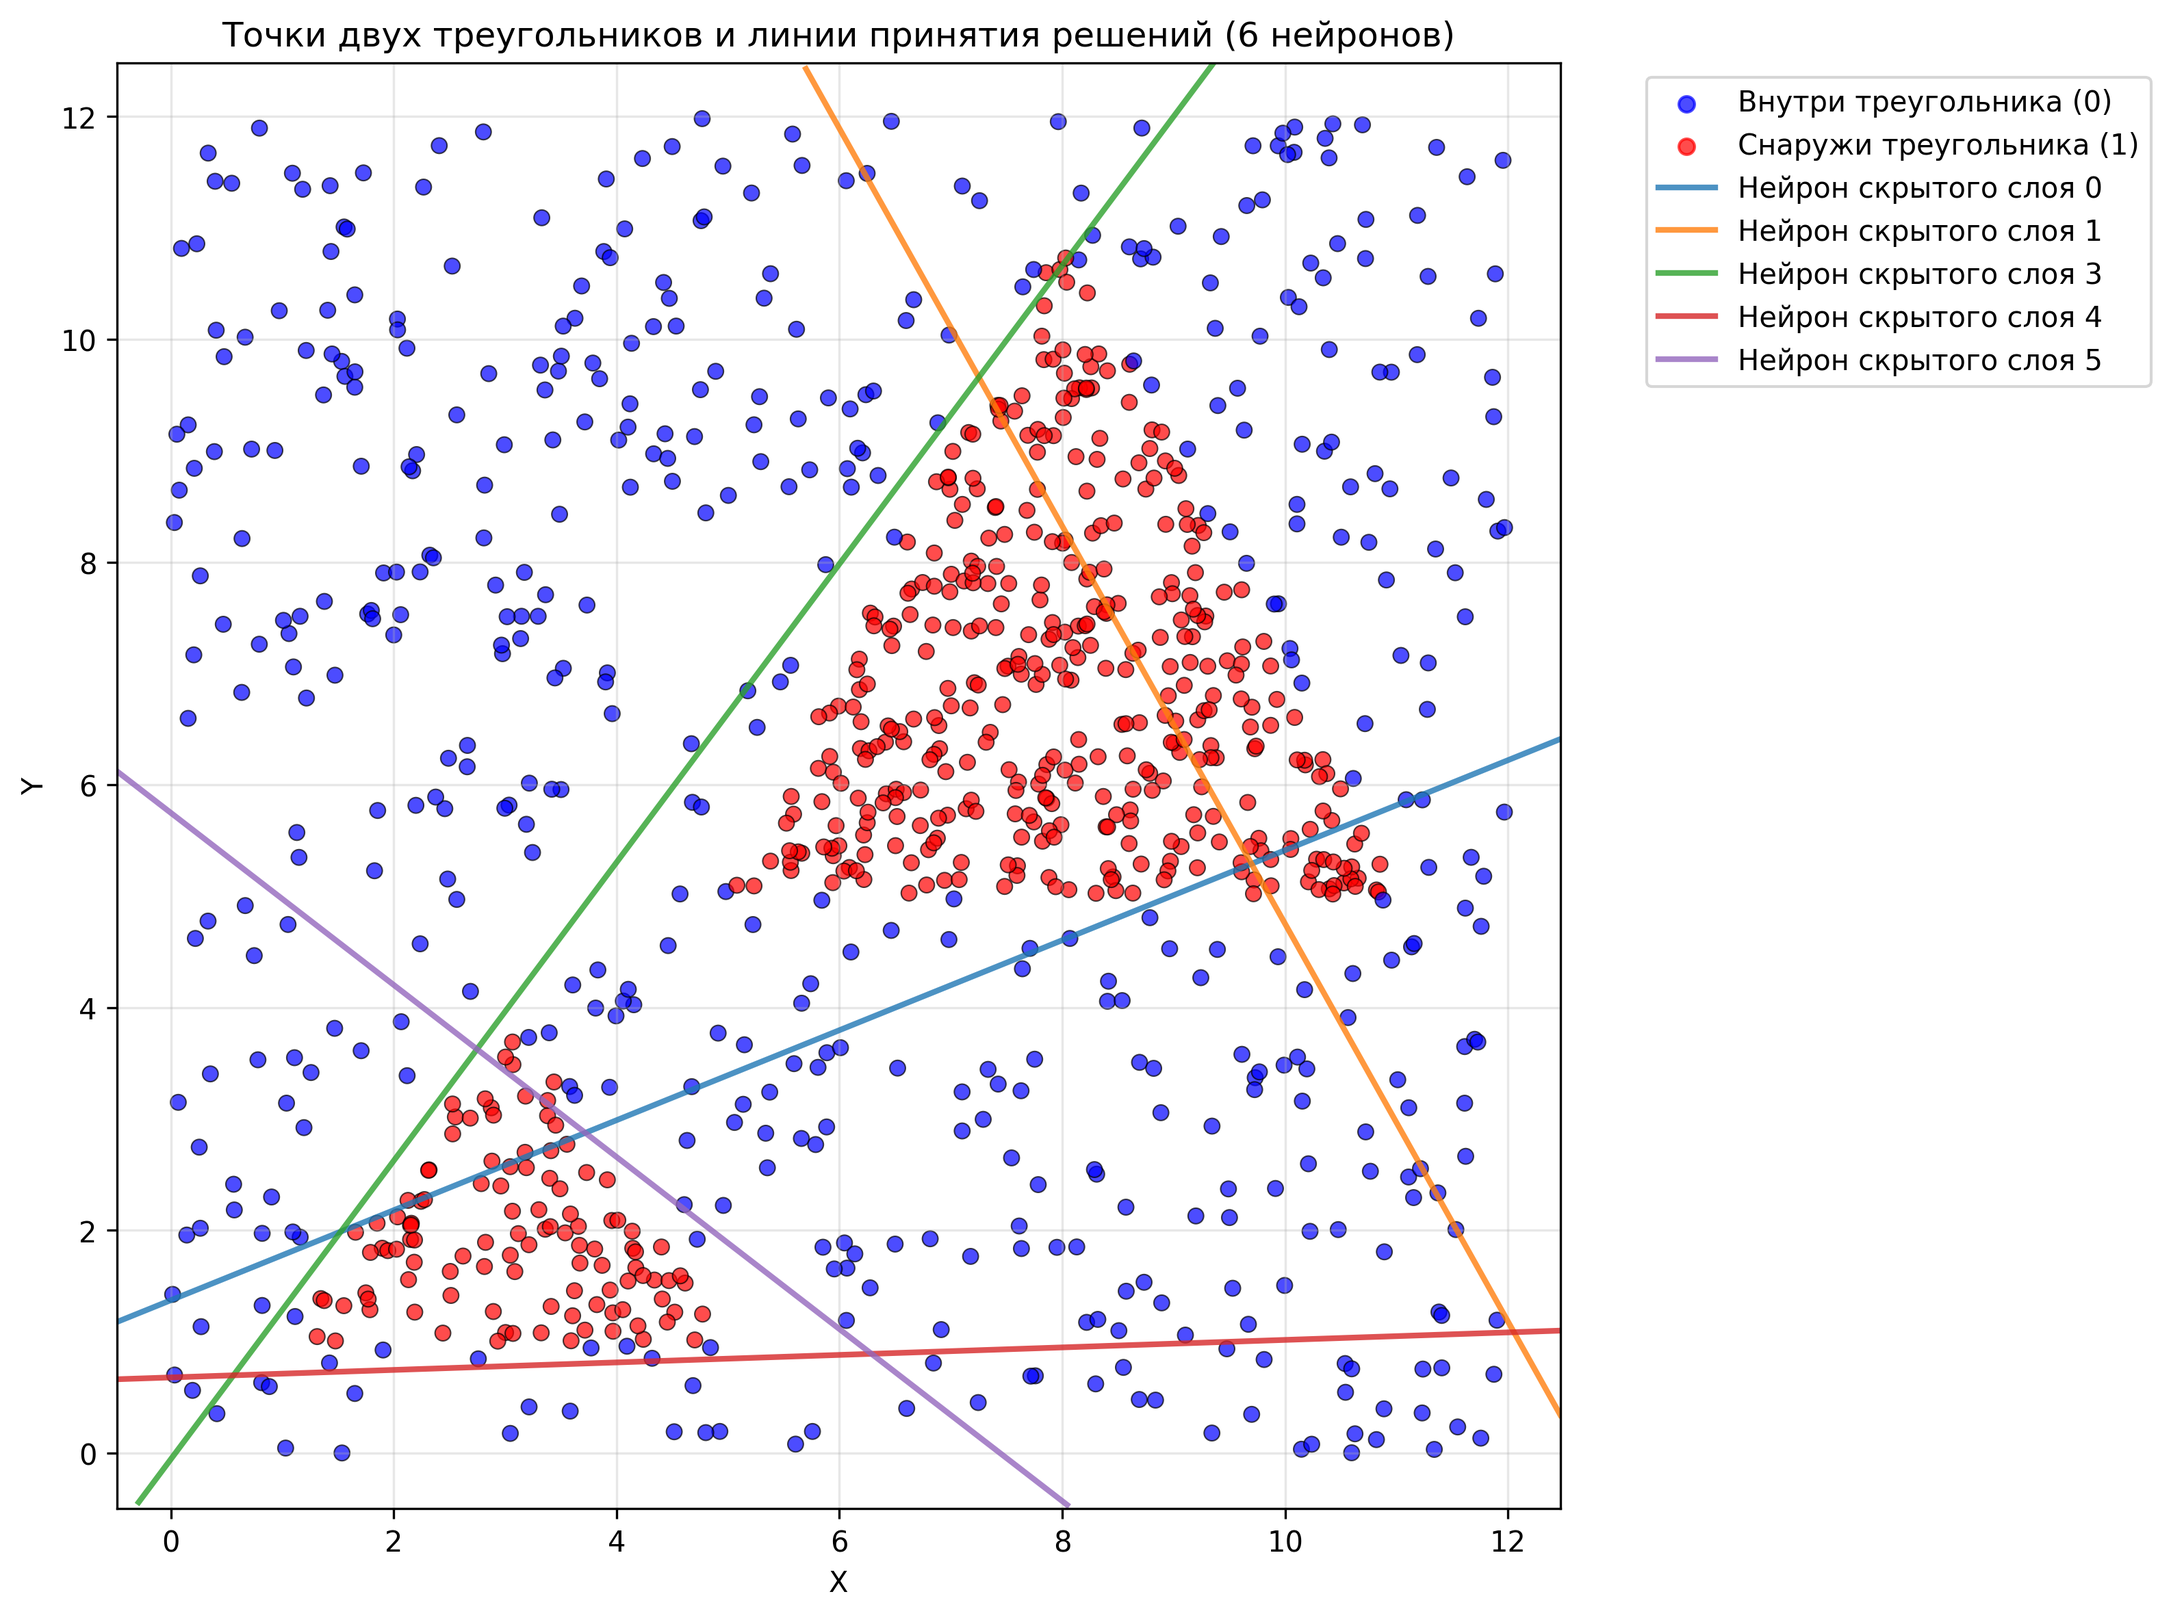
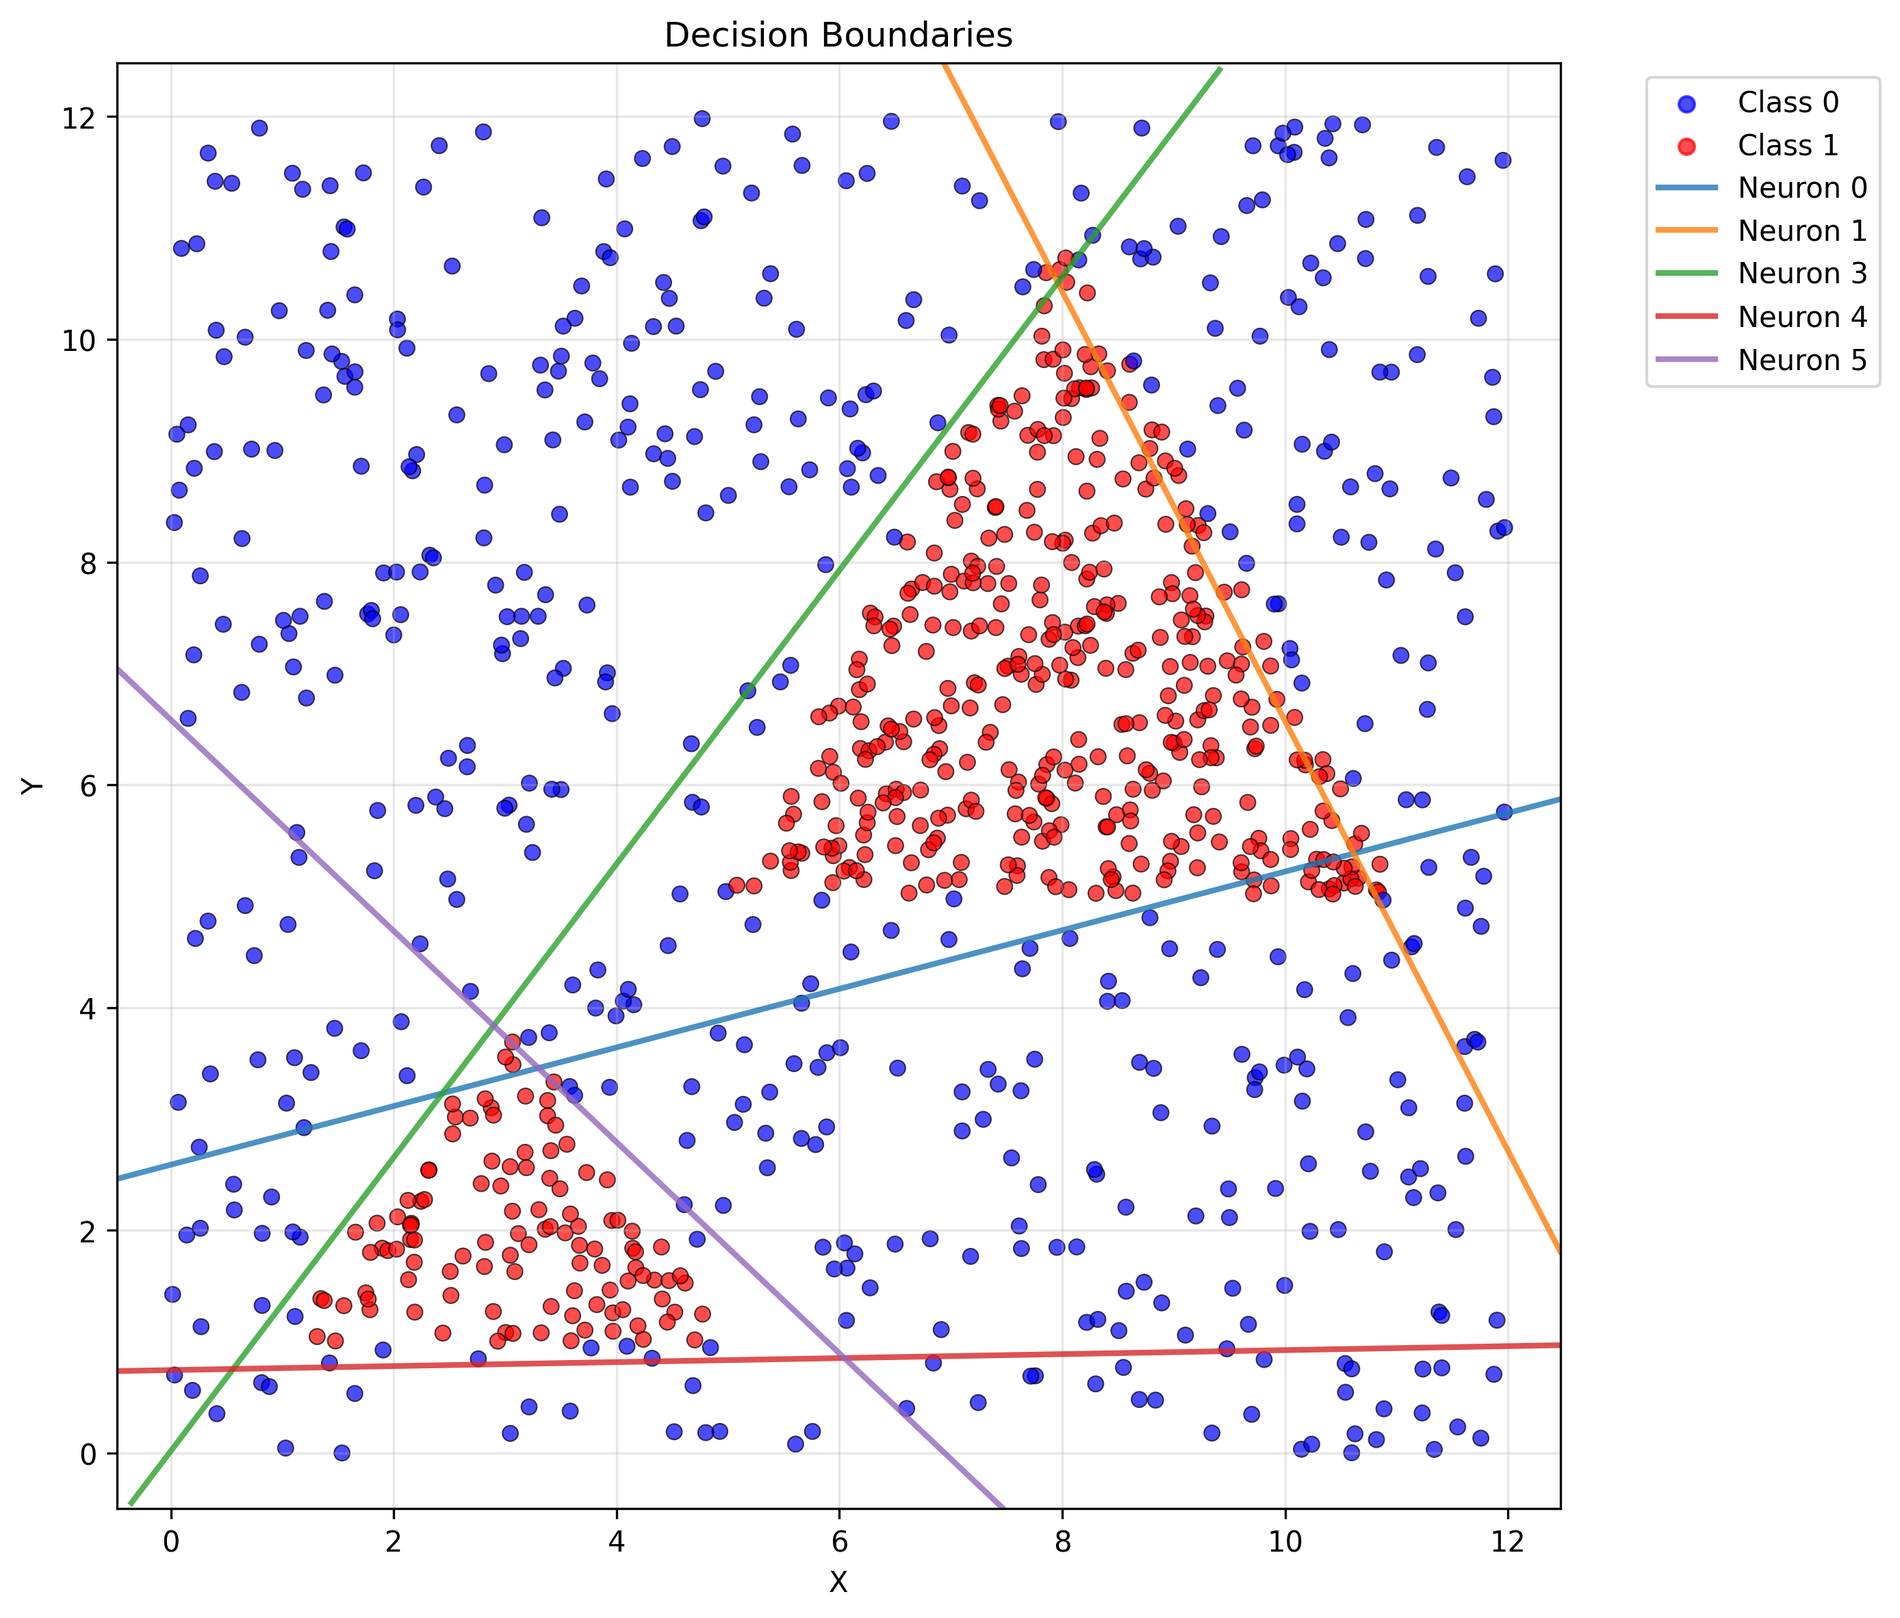
done visualization.py

diff --git a/src/main/python/visualization.py b/src/main/python/visualization.py
@@ -1,0 +1,179 @@
+import pandas as pd
+import matplotlib.pyplot as plt
+import numpy as np
+import sys
+import argparse
+
+def parse_weights_biases(weights_str, biases_str):
+    weights = eval(weights_str)
+    biases = eval(biases_str)
+    return weights, biases
+
+def apply_rotation(data, angle_degrees):
+    angle_rad = np.radians(angle_degrees)
+    rotation_matrix = np.array([
+        [np.cos(angle_rad), -np.sin(angle_rad)],
+        [np.sin(angle_rad), np.cos(angle_rad)]
+    ])
+    result = rotation_matrix @ data.T
+    return result.T
+
+def apply_scale(data, scale_x, scale_y):
+    scale_matrix = np.array([
+        [scale_x, 0],
+        [0, scale_y]
+    ])
+    result = scale_matrix @ data.T
+    return result.T
+
+def apply_shear(data, shear_x, shear_y):
+    shear_matrix = np.array([
+        [1, shear_x],
+        [shear_y, 1]
+    ])
+    result = shear_matrix @ data.T
+    return result.T
+
+def transform_weights(weights, transformation, **kwargs):
+    transformed_weights = []
+    for neuron_weights in weights:
+        weights_array = np.array(neuron_weights)
+        if transformation == 'rotation':
+            angle_rad = np.radians(kwargs['angle'])
+            rotation_matrix = np.array([
+                [np.cos(angle_rad), -np.sin(angle_rad)],
+                [np.sin(angle_rad), np.cos(angle_rad)]
+            ])
+            transformed = rotation_matrix @ weights_array
+        elif transformation == 'scale':
+            scale_matrix = np.array([
+                [1/kwargs['scale_x'], 0],
+                [0, 1/kwargs['scale_y']]
+            ])
+            transformed = weights_array @ scale_matrix
+        elif transformation == 'shear':
+            shear_matrix = np.array([
+                [1, -kwargs['shear_x']],
+                [-kwargs['shear_y'], 1]
+            ])
+            transformed = weights_array @ shear_matrix
+        transformed_weights.append(transformed.tolist())
+    return transformed_weights
+
+def safe_limits(data):
+    clean_data = data[np.isfinite(data)]
+    if len(clean_data) == 0:
+        return -1, 1
+    data_min = np.min(clean_data)
+    data_max = np.max(clean_data)
+    padding = (data_max - data_min) * 0.1
+    return data_min - padding, data_max + padding
+
+def main():
+    parser = argparse.ArgumentParser()
+    parser.add_argument('--weights', type=str, required=True)
+    parser.add_argument('--biases', type=str, required=True)
+    parser.add_argument('--dataset', type=str, default='/home/semyon/projects/neural-networks-and-affine-transformations/src/main/python/multipletriangle/dataset.csv')
+    parser.add_argument('--output', type=str, default='multiple-triangles-class.png')
+    parser.add_argument('--affineTransformation', type=str, choices=['rotation', 'scale', 'shear'])
+    parser.add_argument('--angle', type=float, default=45)
+    parser.add_argument('--scale', type=float, default=1.5)
+    parser.add_argument('--shear', type=float, default=0.3)
+    
+    args = parser.parse_args()
+    
+    weights_layer0, biases_layer0 = parse_weights_biases(args.weights, args.biases)
+    
+    df = pd.read_csv(args.dataset, header=None, names=['x', 'y', 'class', 'class_name'])
+    df['x'] = pd.to_numeric(df['x'], errors='coerce')
+    df['y'] = pd.to_numeric(df['y'], errors='coerce')
+    df['class'] = pd.to_numeric(df['class'], errors='coerce')
+    
+    df = df.dropna()
+
+    fig, (ax1, ax2) = plt.subplots(1, 2, figsize=(20, 8))
+
+    # Original data
+    colors = ['blue' if cls == 0 else 'red' for cls in df['class']]
+    ax1.scatter(df['x'], df['y'], c=colors, alpha=0.7, s=30, edgecolors='black', linewidth=0.5)
+    ax1.set_title('Original Data')
+    ax1.set_xlabel('X')
+    ax1.set_ylabel('Y')
+    ax1.grid(True, alpha=0.3)
+    ax1.set_aspect('equal')
+
+    x_min, x_max = safe_limits(df['x'].values)
+    y_min, y_max = safe_limits(df['y'].values)
+    
+    ax1.set_xlim(x_min, x_max)
+    ax1.set_ylim(y_min, y_max)
+
+    # Transformed data
+    if args.affineTransformation:
+        data_points = df[['x', 'y']].values
+        
+        if args.affineTransformation == 'rotation':
+            transformed_data = apply_rotation(data_points, args.angle)
+            transformed_weights = transform_weights(weights_layer0, 'rotation', angle=args.angle)
+            ax2.set_title(f'Rotated Data (angle={args.angle}°)')
+            
+        elif args.affineTransformation == 'scale':
+            transformed_data = apply_scale(data_points, args.scale, args.scale)
+            transformed_weights = transform_weights(weights_layer0, 'scale', scale_x=args.scale, scale_y=args.scale)
+            ax2.set_title(f'Scaled Data (scale_x={args.scale}, scale_y={args.scale})')
+            
+        elif args.affineTransformation == 'shear':
+            transformed_data = apply_shear(data_points, args.shear, args.shear)
+            transformed_weights = transform_weights(weights_layer0, 'shear', shear_x=args.shear, shear_y=args.shear)
+            ax2.set_title(f'Sheared Data (shear_x={args.shear}, shear_y={args.shear})')
+        
+        ax2.scatter(transformed_data[:, 0], transformed_data[:, 1], c=colors, alpha=0.7, s=30, edgecolors='black', linewidth=0.5)
+        
+        x_min_t, x_max_t = safe_limits(transformed_data[:, 0])
+        y_min_t, y_max_t = safe_limits(transformed_data[:, 1])
+        
+        ax2.set_xlim(x_min_t, x_max_t)
+        ax2.set_ylim(y_min_t, y_max_t)
+        
+        x_range_t = np.linspace(x_min_t, x_max_t, 200)
+        
+        for neuron_idx in range(len(transformed_weights)):
+            w1 = transformed_weights[neuron_idx][0]
+            w2 = transformed_weights[neuron_idx][1]
+            b = biases_layer0[neuron_idx]
+
+            if abs(w2) > 1e-6:
+                y_line = (-w1 * x_range_t - b) / w2
+                valid_indices = (y_line >= y_min_t) & (y_line <= y_max_t)
+                if np.any(valid_indices):
+                    ax2.plot(x_range_t[valid_indices], y_line[valid_indices], linewidth=2, alpha=0.8)
+    else:
+        ax2.scatter(df['x'], df['y'], c=colors, alpha=0.7, s=30, edgecolors='black', linewidth=0.5)
+        ax2.set_title('No Transformation')
+        transformed_weights = weights_layer0
+        ax2.set_xlim(x_min, x_max)
+        ax2.set_ylim(y_min, y_max)
+
+    ax2.set_xlabel('X')
+    ax2.set_ylabel('Y')
+    ax2.grid(True, alpha=0.3)
+    ax2.set_aspect('equal')
+
+    x_range = np.linspace(x_min, x_max, 200)
+
+    for neuron_idx in range(len(weights_layer0)):
+        w1 = weights_layer0[neuron_idx][0]
+        w2 = weights_layer0[neuron_idx][1]
+        b = biases_layer0[neuron_idx]
+
+        if abs(w2) > 1e-6:
+            y_line = (-w1 * x_range - b) / w2
+            valid_indices = (y_line >= y_min) & (y_line <= y_max)
+            if np.any(valid_indices):
+                ax1.plot(x_range[valid_indices], y_line[valid_indices], linewidth=2, alpha=0.8)
+
+    plt.tight_layout()
+    plt.show()
+
+if __name__ == "__main__":
+    main()

diff --git a/src/main/java/com/shavarushka/cli/commands/VisualizationCommand.java b/src/main/java/com/shavarushka/cli/commands/VisualizationCommand.java
@@ -1,0 +1,114 @@
+package com.shavarushka.cli.commands;
+
+import java.io.BufferedReader;
+import java.util.Map;
+
+public class VisualizationCommand implements Command {
+
+    private Map<String, String> requiredArgs;
+    private String transformationType;
+    private Double angle;
+    private Double scale;
+    private Double shear;
+
+    public VisualizationCommand(Map<String, String> requiredArgs, String transformationType, 
+                              String angle, String scale, String shear) {
+        this.requiredArgs = requiredArgs;
+        this.transformationType = transformationType;
+        this.angle = angle != null ? Double.parseDouble(angle) : null;
+        this.scale = scale != null ? Double.parseDouble(scale) : null;
+        this.shear = shear != null ? Double.parseDouble(shear) : null;
+    }
+
+    @Override
+    public String name() {
+        return "visualize";
+    }
+
+    @Override
+    public void execute() {
+        try {
+            // Получаем веса и смещения из модели
+            String weights = getWeightsFromModel();
+            String biases = getBiasesFromModel();
+            
+            // Строим команду для Python скрипта
+            ProcessBuilder pb = buildPythonCommand(weights, biases);
+            
+            // Запускаем процесс
+            Process process = pb.start();
+            
+            // Читаем вывод
+            BufferedReader reader = new BufferedReader(new InputStreamReader(process.getInputStream()));
+            String line;
+            while ((line = reader.readLine()) != null) {
+                System.out.println(line);
+            }
+            
+            // Читаем ошибки
+            BufferedReader errorReader = new BufferedReader(new InputStreamReader(process.getErrorStream()));
+            while ((line = errorReader.readLine()) != null) {
+                System.err.println(line);
+            }
+            
+            int exitCode = process.waitFor();
+            if (exitCode != 0) {
+                System.err.println("Python script exited with error code: " + exitCode);
+            }
+            
+        } catch (Exception e) {
+            System.err.println("Error executing visualization command: " + e.getMessage());
+            e.printStackTrace();
+        }
+    }
+
+    private String getWeightsFromModel() {
+        // Заглушка - в реальности нужно получить веса из модели
+        // Для примера возвращаем тестовые веса
+        return "[[-0.25,0.95],[0.27,0.14],[-0.01,-0.04],[1.41,-1.07],[0.05,-2.79],[-0.73,-0.77]]";
+    }
+
+    private String getBiasesFromModel() {
+        // Заглушка - в реальности нужно получить смещения из модели
+        return "[-2.46,-3.62,-2.81,0.02,2.08,5.07]";
+    }
+
+    private ProcessBuilder buildPythonCommand(String weights, String biases) {
+        String pythonScriptPath = "/home/semyon/projects/neural-networks-and-affine-transformations/src/main/python/visualization.py";
+        
+        ProcessBuilder pb = new ProcessBuilder(
+            "python", pythonScriptPath,
+            "--weights", weights,
+            "--biases", biases
+        );
+        
+        // Добавляем параметры преобразования
+        if (transformationType != null) {
+            pb.command().add("--affineTransformation");
+            pb.command().add(transformationType);
+            
+            switch (transformationType.toLowerCase()) {
+                case "rotation":
+                    if (angle != null) {
+                        pb.command().add("--angle");
+                        pb.command().add(angle.toString());
+                    }
+                    break;
+                case "scale":
+                    if (scale != null) {
+                        pb.command().add("--scale");
+                        pb.command().add(scale.toString());
+                    }
+                    break;
+                case "shear":
+                    if (shear != null) {
+                        pb.command().add("--shear");
+                        pb.command().add(shear.toString());
+                    }
+                    break;
+            }
+        }
+        
+        return pb;
+    }
+}

diff --git a/src/main/python/multipletriangle/visualization.py b/src/main/python/multipletriangle/visualization.py
@@ -8,16 +8,15 @@ df['y'] = pd.to_numeric(df['y'], errors='coerce')
 df['class'] = pd.to_numeric(df['class'], errors='coerce')
 
 weights_layer0 = [
-    [-0.3450212776660919, 0.8539338707923889],
-    [0.28619298338890076, 0.1603141725063324],
-    [-0.09483292698860168, -0.11287638545036316],
-    [1.31396484375, -0.980914294719696],
-    [0.08046909421682358, -2.3885154724121094],
-    [-0.7431932687759399, -0.9621642827987671]
+[-0.2565350830554962, 0.9576932787895203],
+[0.27009227871894836, 0.1462019383907318],
+[-0.019547274336218834, -0.04933701455593109],
+[1.410359501838684, -1.0748653411865234],
+[0.05246511474251747, -2.7907469272613525],
+[-0.7326761484146118, -0.7785971164703369]
 ]
 
-biases_layer0 = [-1.1721757650375366, -3.6236443519592285, -2.4966719150543213,
-                 -0.05389179289340973, 1.6233192682266235, 5.5311279296875]
+biases_layer0 = [-2.4601266384124756, -3.623004913330078, -2.8133342266082764, 0.028144216164946556, 2.0828888416290283, 5.075809001922607]
 
 plt.figure(figsize=(12, 8))
 

diff --git a/src/main/java/com/shavarushka/network/multipletriangle/Main.java b/src/main/java/com/shavarushka/network/multipletriangle/Main.java
@@ -14,7 +14,7 @@ import com.shavarushka.network.api.fabric.MultipleTriangleModelFabric;
 
 public class Main {
     public static void main(String[] args) {
-        ModelFabric fabric = new MultipleTriangleModelFabric(ModelLoader.load("src/main/resources/two-triangles.zip"));
+        ModelFabric fabric = new MultipleTriangleModelFabric(ModelLoader.load("src/main/resources/two-triangle.zip"));
 
         ModelPredictor predictor = fabric.createPredictor();
         WeightsManager weightsManager = fabric.createWeightsManager();

diff --git a/src/main/java/com/shavarushka/network/multipletriangle/MultipleTriangleNetwork.java b/src/main/java/com/shavarushka/network/multipletriangle/MultipleTriangleNetwork.java
@@ -20,7 +20,7 @@ public class MultipleTriangleNetwork {
         MultiLayerConfiguration config = new NeuralNetConfiguration.Builder()
                 .seed(modelSeed)
                 .optimizationAlgo(OptimizationAlgorithm.STOCHASTIC_GRADIENT_DESCENT)
-                .updater(new Adam(0.1))
+                .updater(new Adam(0.09))
                 .l2(0.001)
                 .list()
                 .layer(new DenseLayer.Builder()

diff --git a/src/main/python/triangle/visualization-affine.py b/src/main/python/triangle/visualization-affine.py
@@ -12,7 +12,7 @@ biases_layer0 = [0.9883695244789124, 16.352188110351562]
 
 scale_x = 5.0
 scale_y = 5.0
-rotation_angle = 180
+rotation_angle = 45
 
 transform_matrix_scale = np.array([
     [scale_x, 0],
